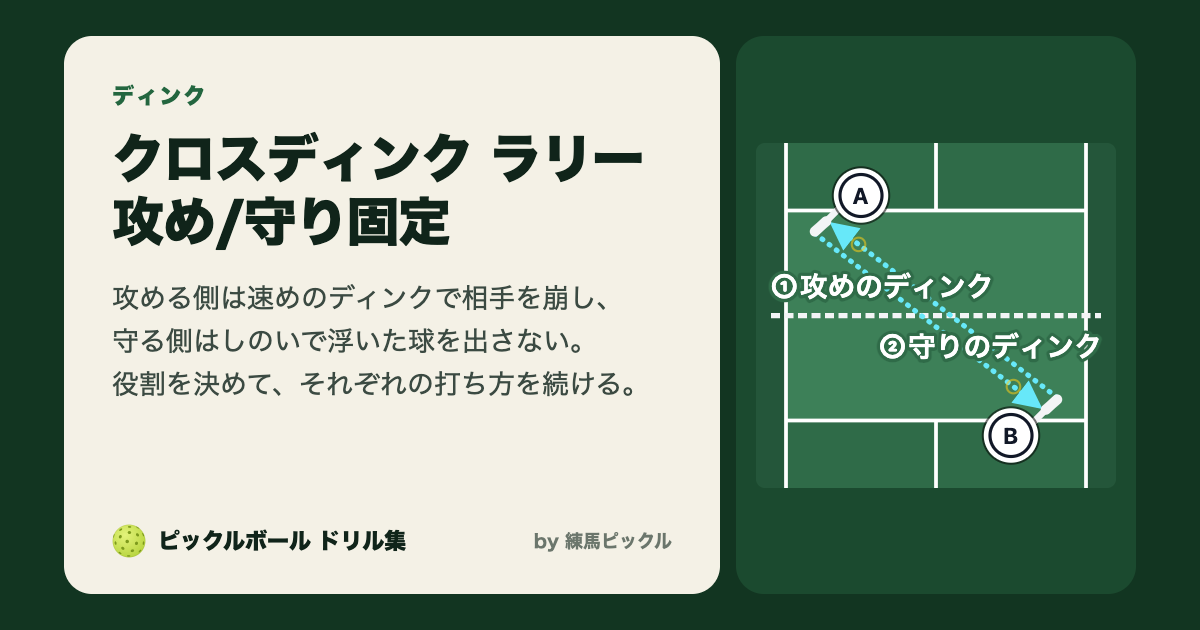
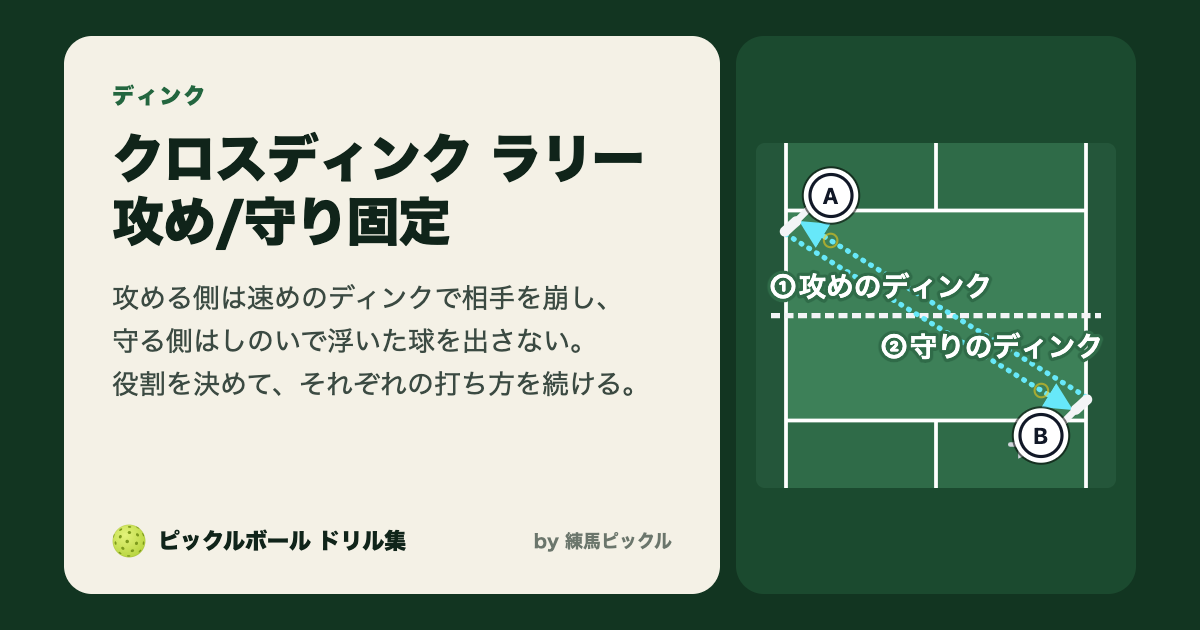
Cross dink rallies (dnk003/007/010): both players side-step to the ball and return to base; loop closes without a jump
Claude-Session: https://claude.ai/code/session_013HpVCq95JLREtWQF64J4S6

Changed region(s): [[0.6475, 0.2413, 0.925, 0.754]]

diff --git a/src/content/docs/drills/dnk/dnk010.md b/src/content/docs/drills/dnk/dnk010.md
@@ -9,10 +9,11 @@ drill:
   scene: 4人ともキッチンラインに並び、ディンクの打ち合いになっている。どちらかが浮いた球を出すと、相手に攻められる。
   purpose: ネットの低いところを通して相手のキッチンに落とし続け、相手が打てる高さの球を渡さない。相手が先に浮かせるまで待ち、浮いた球をこちらから攻める。
   focus: 攻める側は速めのディンクで相手を崩し、守る側はしのいで浮いた球を出さない。役割を決めて、それぞれの打ち方を続ける。
-  setup: 2人1組でクロス（対角）に入り、2人ともキッチンライン付近に立つ。片方が攻める側、もう片方が守る側になる。1面で2組同時にできる。
+  setup: 2人1組でクロス（対角）に入り、2人ともキッチンライン付近に立つ。2人とも、自分の半面の真ん中から少し相手の側に寄った位置（基本の位置）で待つ。片方が攻める側、もう片方が守る側になる。1面で2組同時にできる。
   feed: 守る側がクロスにディンクを出して始める。
   steps:
-    - 2人ともキッチンライン付近で構える
+    - 2人とも基本の位置で構える
+    - 相手が打ったら、サイドステップで横に動いて球に合わせ、打ったらすぐに基本の位置へ戻る
     - 攻める側は相手の足元やバック側へ速めのディンクを打つ
     - 守る側は下がってでも柔らかいディンクで相手のキッチンへ返す
     - 守る側の球が浮いたら、攻める側はフリックやボレーで攻める
@@ -22,13 +23,20 @@ drill:
     - パドルのヘッドを下げた形から打ち出す。ストロークのように後ろから振らない
     - 攻める側も高く上げずにネットの少し上を通す
     - 守る側は無理に攻め返さず、低く返し続ける
+    - 打ったら必ず基本の位置へ戻る。最初から端で待たない
   diagram:
     players:
-      - { id: A, at: far-left-kitchen, role: practice }
-      - { id: B, at: near-right-kitchen, role: practice }
+      - { id: A, at: far-leftOuter-kitchen, role: practice }
+      - { id: B, at: near-rightInner-kitchen, role: practice }
     shots:
+      # A は外側で受けたところから打ち、打ちながら基本の位置へ戻る。B は横へ動いて受け、打ちながら戻る。
+      # 最後の手のあとの立ち位置が最初と同じになるので、繰り返しても人が跳ばない
       - { from: A, to: B, type: dink, n: 1, bounce: front, label: 攻めのディンク }
+      - { from: A, to: far-leftInner-kitchen, type: move, n: 1 }
+      - { from: B, to: near-rightOuter-kitchen, type: move, n: 1 }
       - { from: B, to: A, type: dink, n: 2, bounce: front, label: 守りのディンク }
+      - { from: B, to: near-rightInner-kitchen, type: move, n: 2 }
+      - { from: A, to: far-leftOuter-kitchen, type: move, n: 2 }
   builderDefault:
     min: 2
     sets: 5

diff --git a/src/content/docs/drills/dnk/dnk007.md b/src/content/docs/drills/dnk/dnk007.md
@@ -9,10 +9,11 @@ drill:
   scene: 4人ともキッチンラインに並び、ディンクの打ち合いになっている。どちらかが浮いた球を出すと、相手に攻められる。
   purpose: ネットの低いところを通して相手のキッチンに落とし続け、相手が打てる高さの球を渡さない。相手が先に浮かせるまで待ち、浮いた球をこちらから攻める。
   focus: 回転の違う球を受けながら打ち合い、相手の球に合わせて自分の打ち方を保つ。
-  setup: 2人1組でクロス（対角）に入り、2人ともキッチンライン付近に立つ。片方はロールだけ、もう片方はスライスかショートホップだけで打つ。1面で2組同時にできる。
+  setup: 2人1組でクロス（対角）に入り、2人ともキッチンライン付近に立つ。2人とも、自分の半面の真ん中から少し相手の側に寄った位置（基本の位置）で待つ。片方はロールだけ、もう片方はスライスかショートホップだけで打つ。1面で2組同時にできる。
   feed: どちらかがクロスにディンクを出して始める。
   steps:
-    - 2人ともキッチンライン付近で構える
+    - 2人とも基本の位置で構える
+    - 相手が打ったら、サイドステップで横に動いて球に合わせ、打ったらすぐに基本の位置へ戻る
     - A はロールのディンク、B はスライスかショートホップのディンクだけで、クロスに打ち合う
     - そのままラリーを続ける
     - 一定時間で打ち方を入れ替える
@@ -20,13 +21,20 @@ drill:
     - 体の横ではなく、体の前（足の前）で打つ
     - パドルのヘッドを下げた形から打ち出す。ストロークのように後ろから振らない
     - 相手の回転で球の弾み方が変わるので、弾んだあとの球をよく見る
+    - 打ったら必ず基本の位置へ戻る。最初から端で待たない
   diagram:
     players:
-      - { id: A, at: far-left-kitchen, role: practice }
-      - { id: B, at: near-right-kitchen, role: practice }
+      - { id: A, at: far-leftOuter-kitchen, role: practice }
+      - { id: B, at: near-rightInner-kitchen, role: practice }
     shots:
+      # A は外側で受けたところから打ち、打ちながら基本の位置へ戻る。B は横へ動いて受け、打ちながら戻る。
+      # 最後の手のあとの立ち位置が最初と同じになるので、繰り返しても人が跳ばない
       - { from: A, to: B, type: dink, n: 1, bounce: front, label: ロール }
+      - { from: A, to: far-leftInner-kitchen, type: move, n: 1 }
+      - { from: B, to: near-rightOuter-kitchen, type: move, n: 1 }
       - { from: B, to: A, type: dink, n: 2, bounce: front, label: スライス }
+      - { from: B, to: near-rightInner-kitchen, type: move, n: 2 }
+      - { from: A, to: far-leftOuter-kitchen, type: move, n: 2 }
   builderDefault:
     min: 2
     sets: 5

diff --git a/src/content/docs/drills/dnk/dnk003.md b/src/content/docs/drills/dnk/dnk003.md
@@ -9,24 +9,31 @@ drill:
   scene: 4人ともキッチンラインに並び、ディンクの打ち合いになっている。どちらかが浮いた球を出すと、相手に攻められる。
   purpose: ネットの低いところを通して相手のキッチンに落とし続け、相手が打てる高さの球を渡さない。相手が先に浮かせるまで待ち、浮いた球をこちらから攻める。
   focus: 試合でいちばん多いクロスのディンクを、ネットの低い真ん中を通して続ける。
-  setup: 2人1組でクロス（対角）に入り、2人ともキッチンライン付近に立つ。1面で2組同時にできる。
+  setup: 2人1組でクロス（対角）に入り、2人ともキッチンライン付近に立つ。2人とも、自分の半面の真ん中から少し相手の側に寄った位置（基本の位置）で待つ。1面で2組同時にできる。
   feed: どちらかがクロスにディンクを出して始める。
   steps:
-    - 2人ともキッチンライン付近で構える
+    - 2人とも基本の位置で構える
+    - 相手が打ったら、サイドステップで横に動いて球に合わせ、打ったらすぐに基本の位置へ戻る
     - 弾んだ球をディンクで対角の相手のキッチンに返す
     - そのままラリーを続ける
   points:
     - ネットの一番低い真ん中あたりを通す
     - 体の横ではなく、体の前（足の前）で打つ
     - パドルのヘッドを下げた形から打ち出す。ストロークのように後ろから振らない
-    - 打ったら自分の半面の真ん中に戻る
+    - 打ったら必ず基本の位置へ戻る。最初から端で待たない
   diagram:
     players:
-      - { id: A, at: far-left-kitchen, role: practice }
-      - { id: B, at: near-right-kitchen, role: practice }
+      - { id: A, at: far-leftOuter-kitchen, role: practice }
+      - { id: B, at: near-rightInner-kitchen, role: practice }
     shots:
+      # A は外側で受けたところから打ち、打ちながら基本の位置へ戻る。B は横へ動いて受け、打ちながら戻る。
+      # 最後の手のあとの立ち位置が最初と同じになるので、繰り返しても人が跳ばない
       - { from: A, to: B, type: dink, n: 1, bounce: front }
+      - { from: A, to: far-leftInner-kitchen, type: move, n: 1 }
+      - { from: B, to: near-rightOuter-kitchen, type: move, n: 1 }
       - { from: B, to: A, type: dink, n: 2, bounce: front }
+      - { from: B, to: near-rightInner-kitchen, type: move, n: 2 }
+      - { from: A, to: far-leftOuter-kitchen, type: move, n: 2 }
   variants:
     - { key: any, name: 自由, default: true, note: フォアでもバックでもよいのでディンク }
     - { key: slice, name: スライス, note: スライスでディンク }
